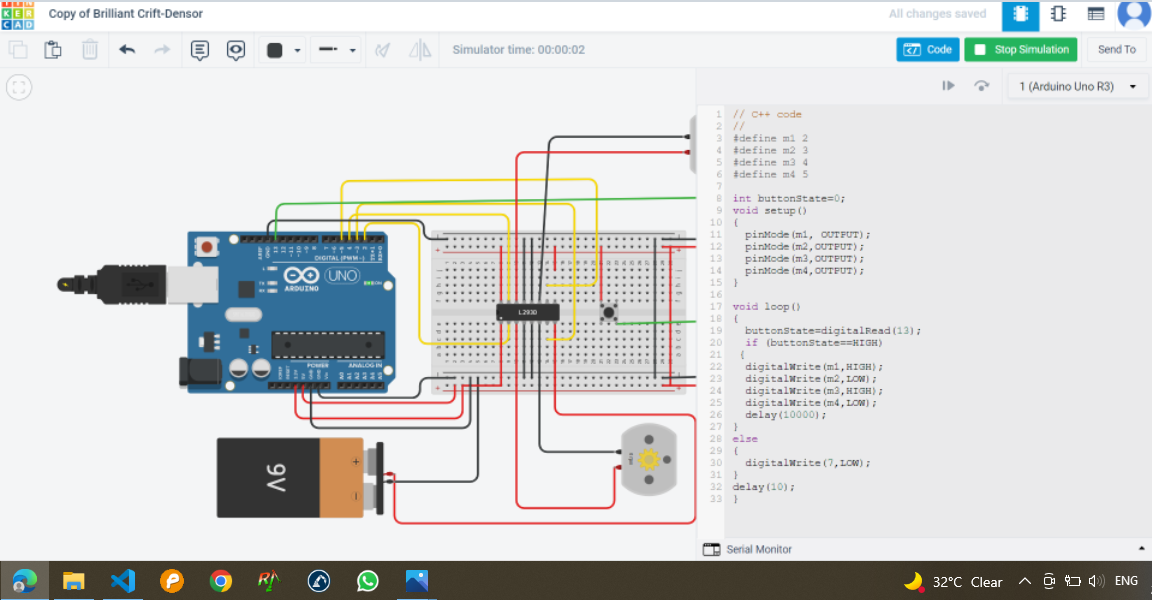
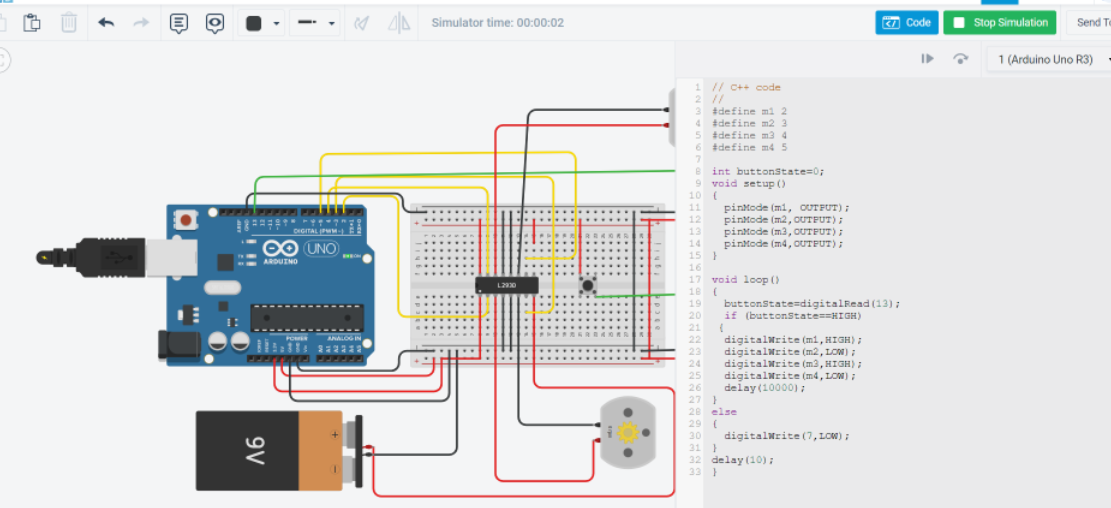
commit on main

Changed region(s): [[0.0, 0.1476, 1.0, 1.0], [0.0, 0.0, 1.0, 0.1772]]

diff --git a/README.md b/README.md
@@ -26,8 +26,42 @@ TABLE-01 EXITATION TABLE FOR H BRIDGE
 As shown in the circuit diagram we need only 3 Arduino terminal pins, pin 8 is for the push button which toggles the motor direction of rotation. Pins 9 and 10 are PWM signal outputs, at any time there is only 1 active PWM, this allows us to control the direction as well as the speed by varying the duty cycle of the PWM signal. The active PWM pin decides the motor direction of rotation (one at a time, the other output is logic 0).
 
 ### PRGORAM 
+```
+#define m1 2
+#define m2 3
+#define m3 4
+#define m4 5
 
+int buttonState=0;
+void setup()
+{
+  pinMode(m1, OUTPUT);
+  pinMode(m2,OUTPUT);
+  pinMode(m3,OUTPUT);
+  pinMode(m4,OUTPUT);
+}
+
+void loop()
+{
+  buttonState=digitalRead(13);
+  if (buttonState==HIGH)
+ {
+  digitalWrite(m1,HIGH);
+  digitalWrite(m2,LOW);
+  digitalWrite(m3,HIGH);
+  digitalWrite(m4,LOW);
+  delay(10000);
+}
+else
+{
+  digitalWrite(7,LOW);
+}
+delay(10);
+}
+```
 ### OUTPUT
-
+![img](output1.png)
+![img](output%202.png)
 ### RESULTS AND DISCUSSION 
+Thus the above DC motor speed control using Arduino successfully worked.
 
